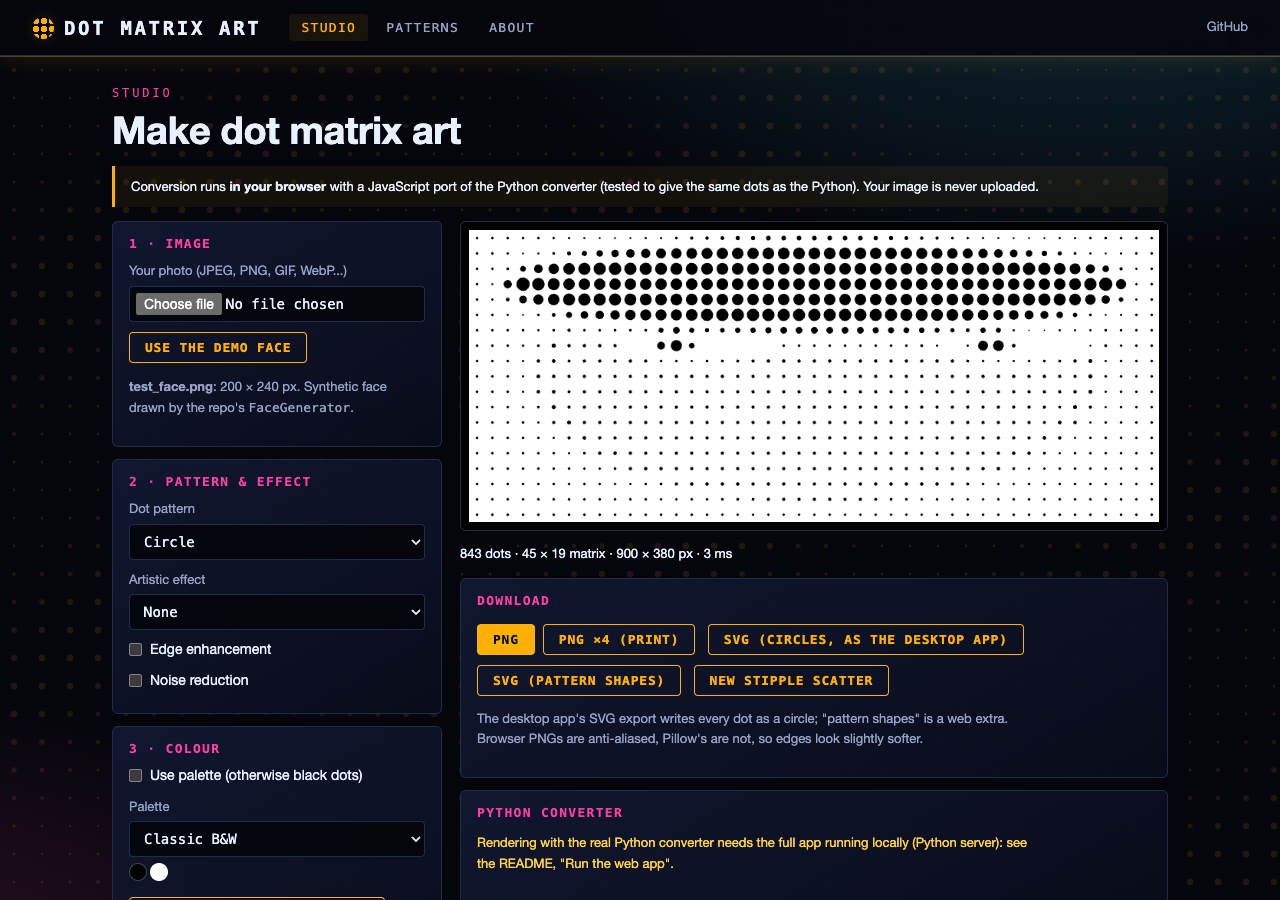
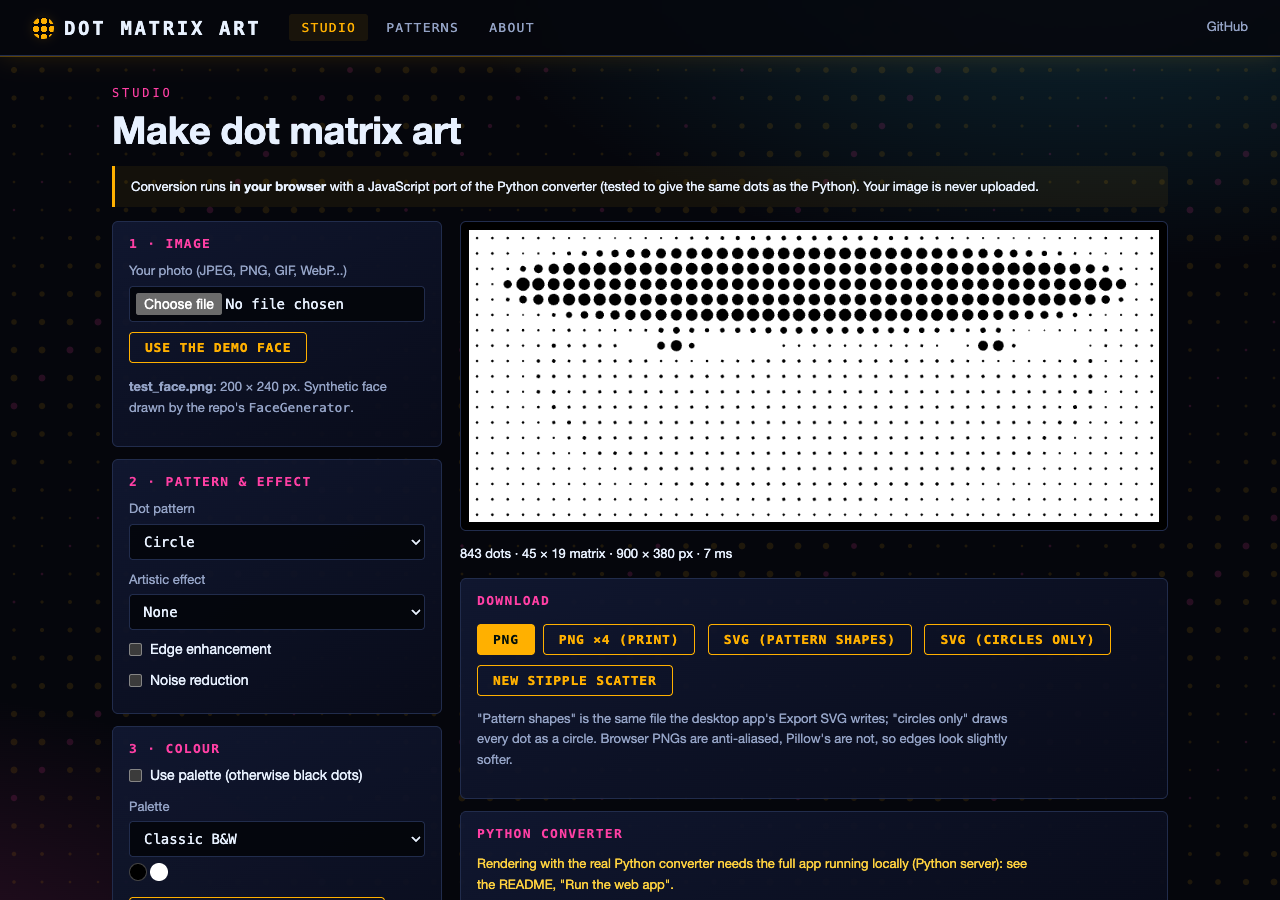
Update session log and studio screenshot after the SVG export fix

Changed region(s): [[0.3438, 0.7467, 0.9062, 0.9956], [0.5938, 0.6844, 0.875, 0.7156]]

diff --git a/SESSION_LOG.md b/SESSION_LOG.md
@@ -35,3 +35,11 @@
 - Each fix in its own "Fix ..." commit with regression tests. All KIT checks re-run: pytest 30 passed
   (tests/ + test_patterns.py), screenshots static + local all ok, Python render = browser dot list.
 - Still pre-existing: dot_matrix/gui_main.py is 835 lines (over the 500-line budget; not split here).
+
+## 2026-11-11 (later): desktop SVG export draws the selected pattern
+- Fixed: Export SVG wrote circles whatever the pattern. New `dot_matrix/svg_export.py` (shapes recorded from the
+  converter's own `_draw_pattern`; numbers formatted like JS `String(+v.toFixed(3))`); `export_svg(..., pattern=)`,
+  converter records `pattern_used`, GUI passes it. Circles-only format kept when no pattern is given.
+- Byte-identical to the web's "SVG (pattern shapes)" for all patterns except stipple (fixture `svg_shapes`, node
+  test 4573/4573). Web studio buttons relabelled; local "Python SVG" is now the shapes export.
+- KIT checks re-run: pytest tests/ + test_patterns.py 33 passed; screenshots static and local all ok.
